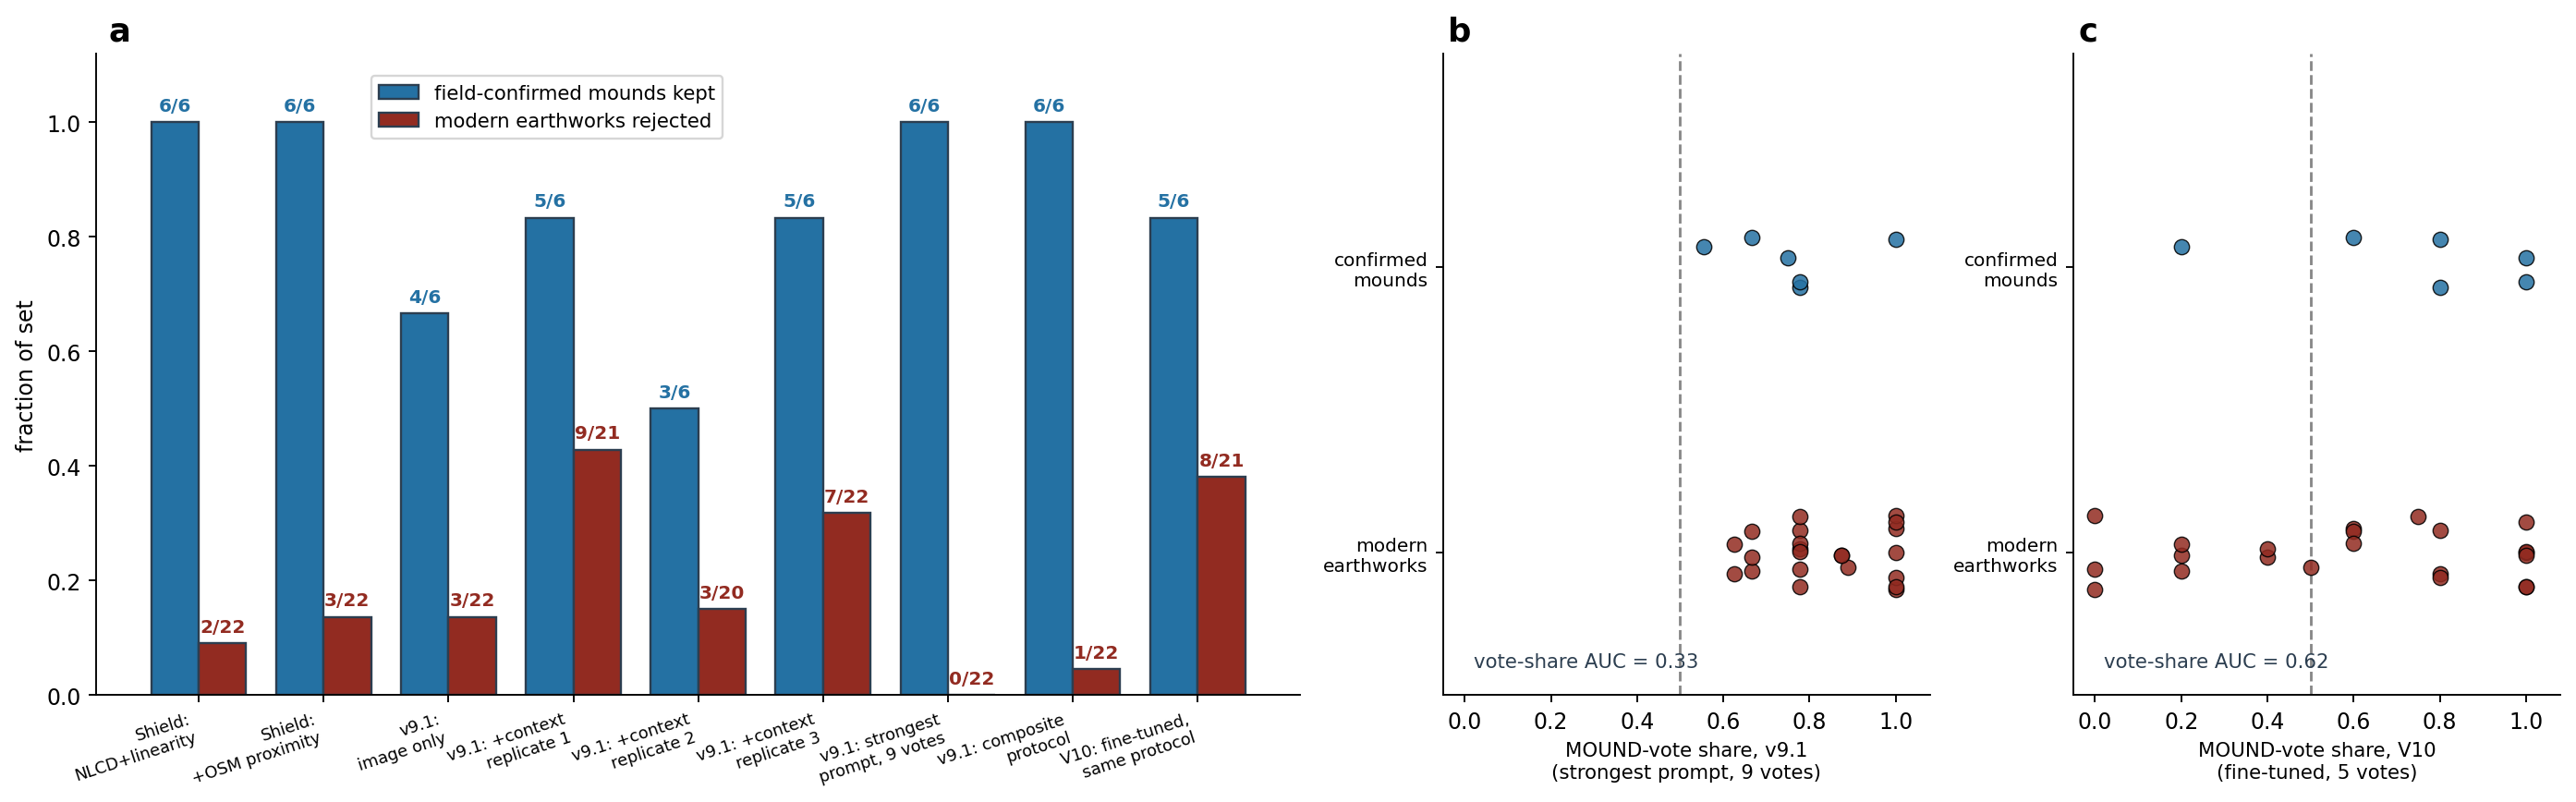
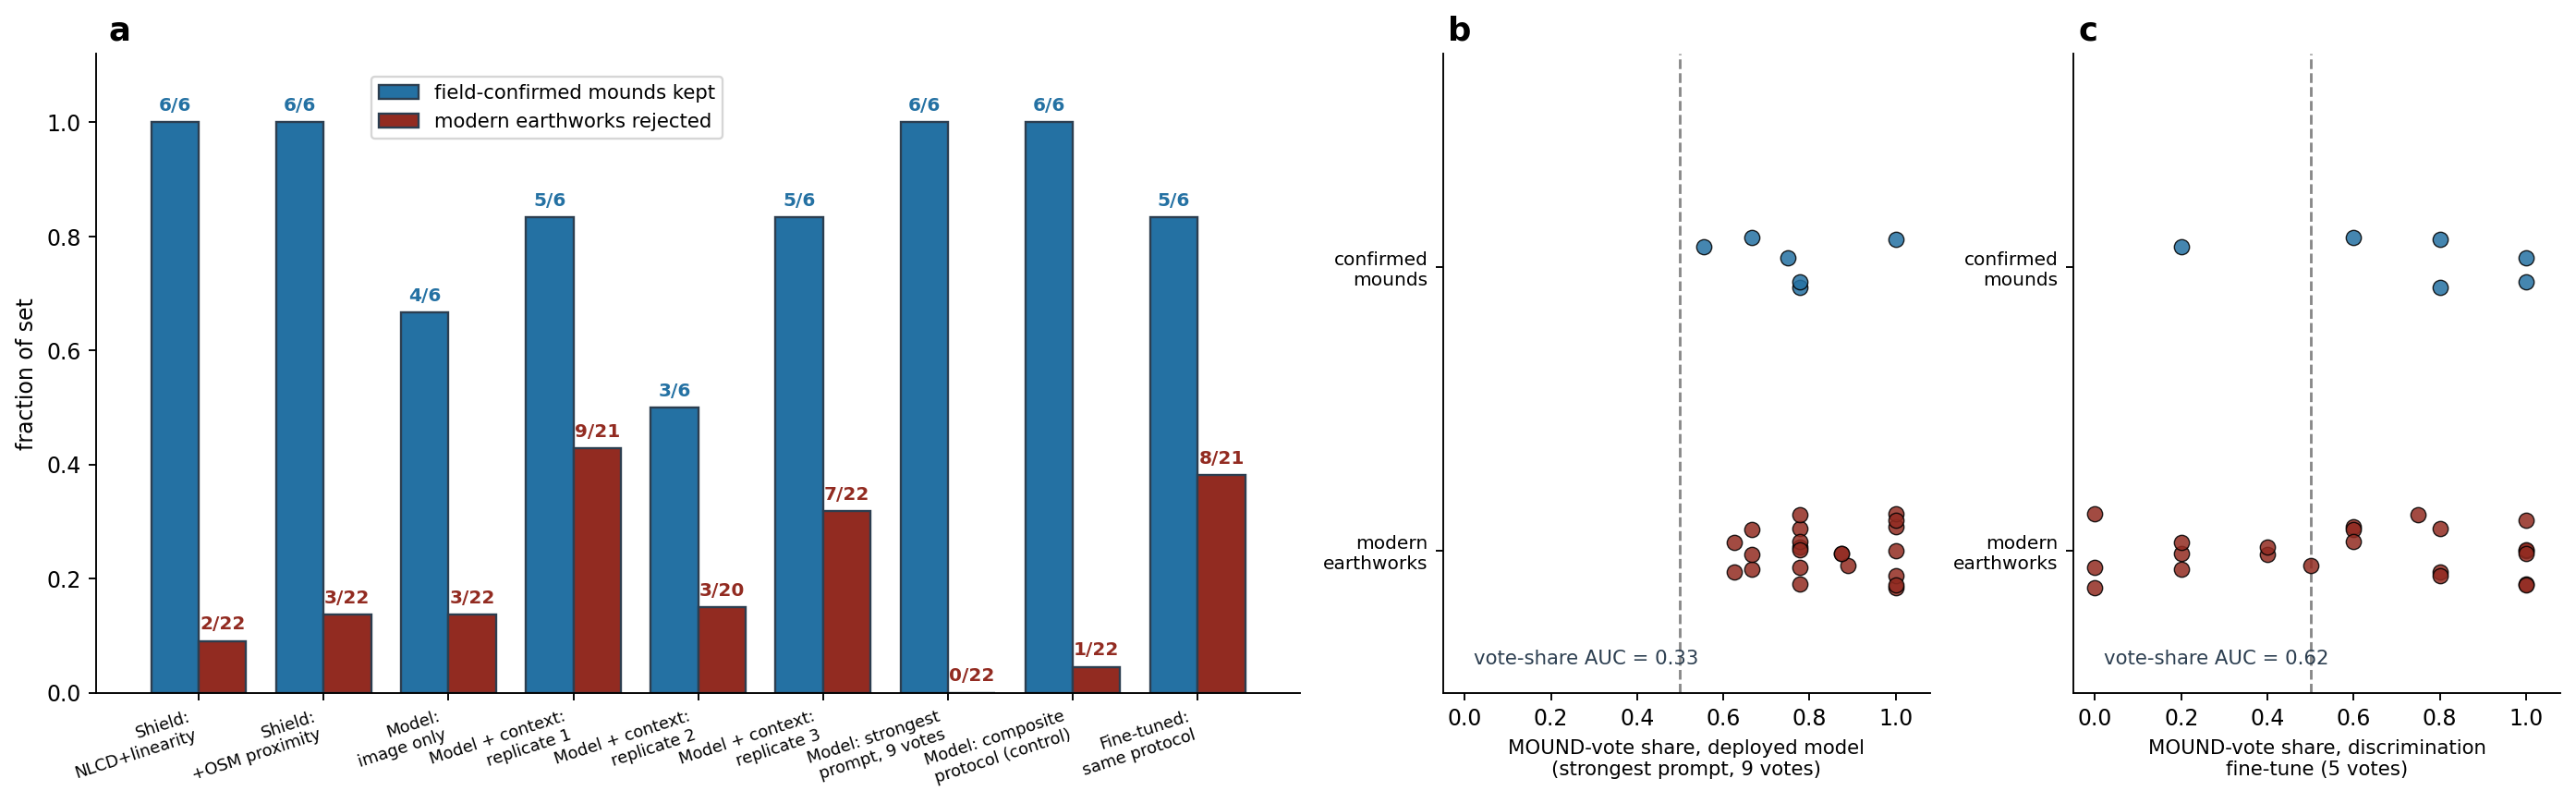
Sync manuscript and Figure 11: reader-facing model naming, length restructure (Appendices B.5, C)

diff --git a/scripts/generate_discrimination_fig.py b/scripts/generate_discrimination_fig.py
@@ -62,16 +62,16 @@ def main():
     k, r = shield_counts(f"{T}/data/shield_eskew/shield_eskew_proximity.csv", "verdict_full")
     arms.append(("Shield:\n+OSM proximity", k, r))
     k, r = vlm_counts(f"{T}/data/vlm_ablation/ablation_results.csv")
-    arms.append(("v9.1:\nimage only", k, r))
+    arms.append(("Model:\nimage only", k, r))
     for i in (1, 2, 3):
         k, r = vlm_counts(f"{T}/data/vlm_ablation_context/run{i}_results.csv")
-        arms.append((f"v9.1: +context\nreplicate {i}", k, r))
+        arms.append((f"Model + context:\nreplicate {i}", k, r))
     k, r = vlm_counts(f"{T}/data/vlm_ablation_armc/armc_results.csv")
-    arms.append(("v9.1: strongest\nprompt, 9 votes", k, r))
+    arms.append(("Model: strongest\nprompt, 9 votes", k, r))
     k, r = vlm_counts(f"{T}/data/v10_eval/eskew_v91same.csv")
-    arms.append(("v9.1: composite\nprotocol", k, r))
+    arms.append(("Model: composite\nprotocol (control)", k, r))
     k, r = vlm_counts(f"{T}/data/v10_eval/eskew_v10.csv")
-    arms.append(("V10: fine-tuned,\nsame protocol", k, r))
+    arms.append(("Fine-tuned:\nsame protocol", k, r))
 
     fig, (ax1, ax2, ax3) = plt.subplots(
         1, 3, figsize=(16.5, 5.2), gridspec_kw={"width_ratios": [2.1, 0.85, 0.85]})
@@ -131,9 +131,9 @@ def main():
         return auc
 
     auc_b = share_panel(ax2, f"{T}/data/vlm_ablation_armc/armc_results.csv",
-                        "MOUND-vote share, v9.1\n(strongest prompt, 9 votes)", "b")
+                        "MOUND-vote share, deployed model\n(strongest prompt, 9 votes)", "b")
     auc_c = share_panel(ax3, f"{T}/data/v10_eval/eskew_v10.csv",
-                        "MOUND-vote share, V10\n(fine-tuned, 5 votes)", "c")
+                        "MOUND-vote share, discrimination\nfine-tune (5 votes)", "c")
 
     fig.tight_layout()
     os.makedirs("docs/figures", exist_ok=True)